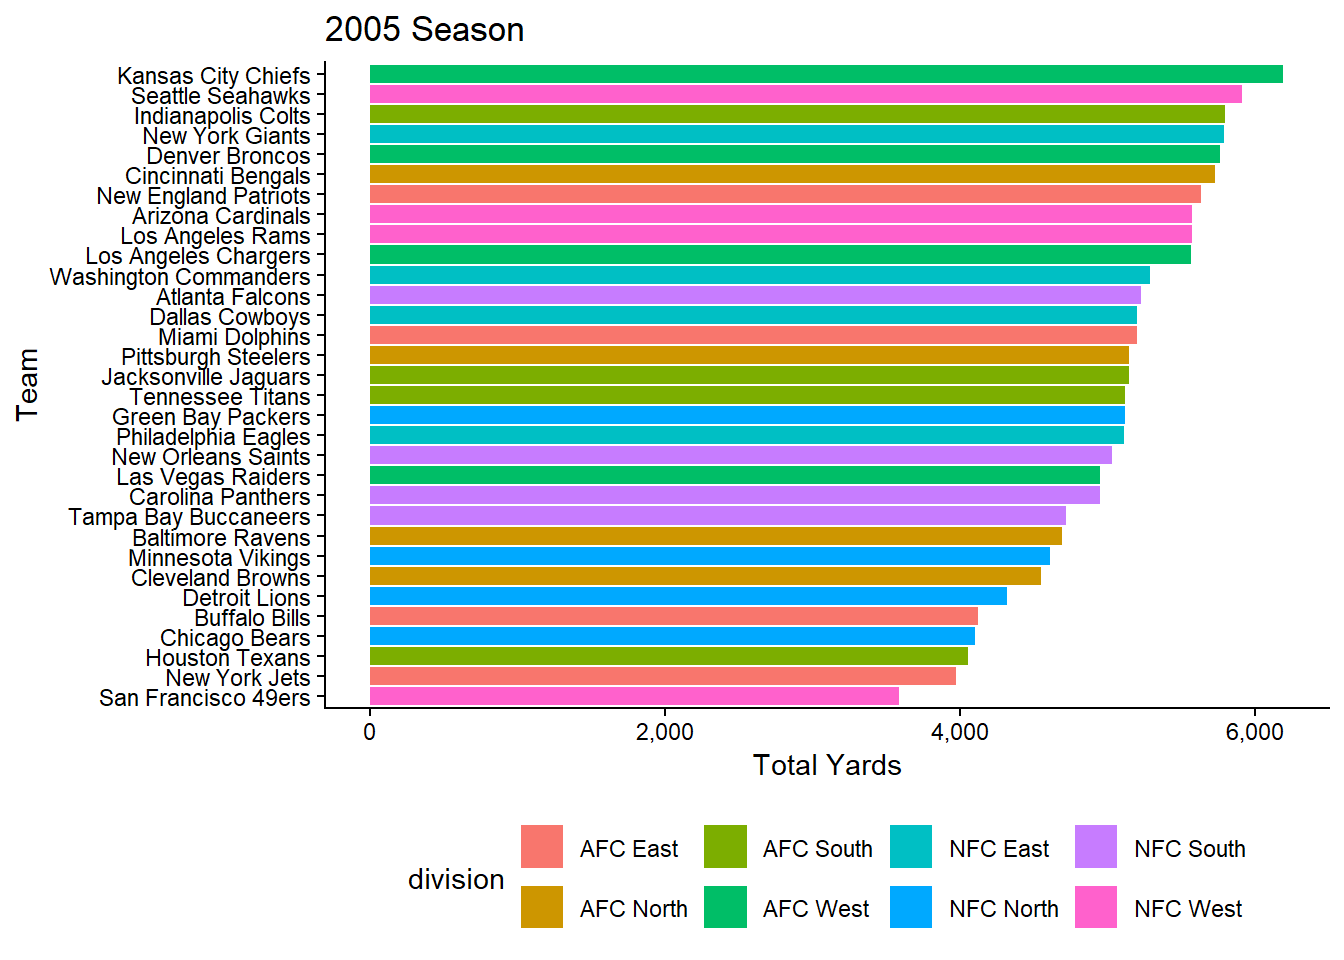
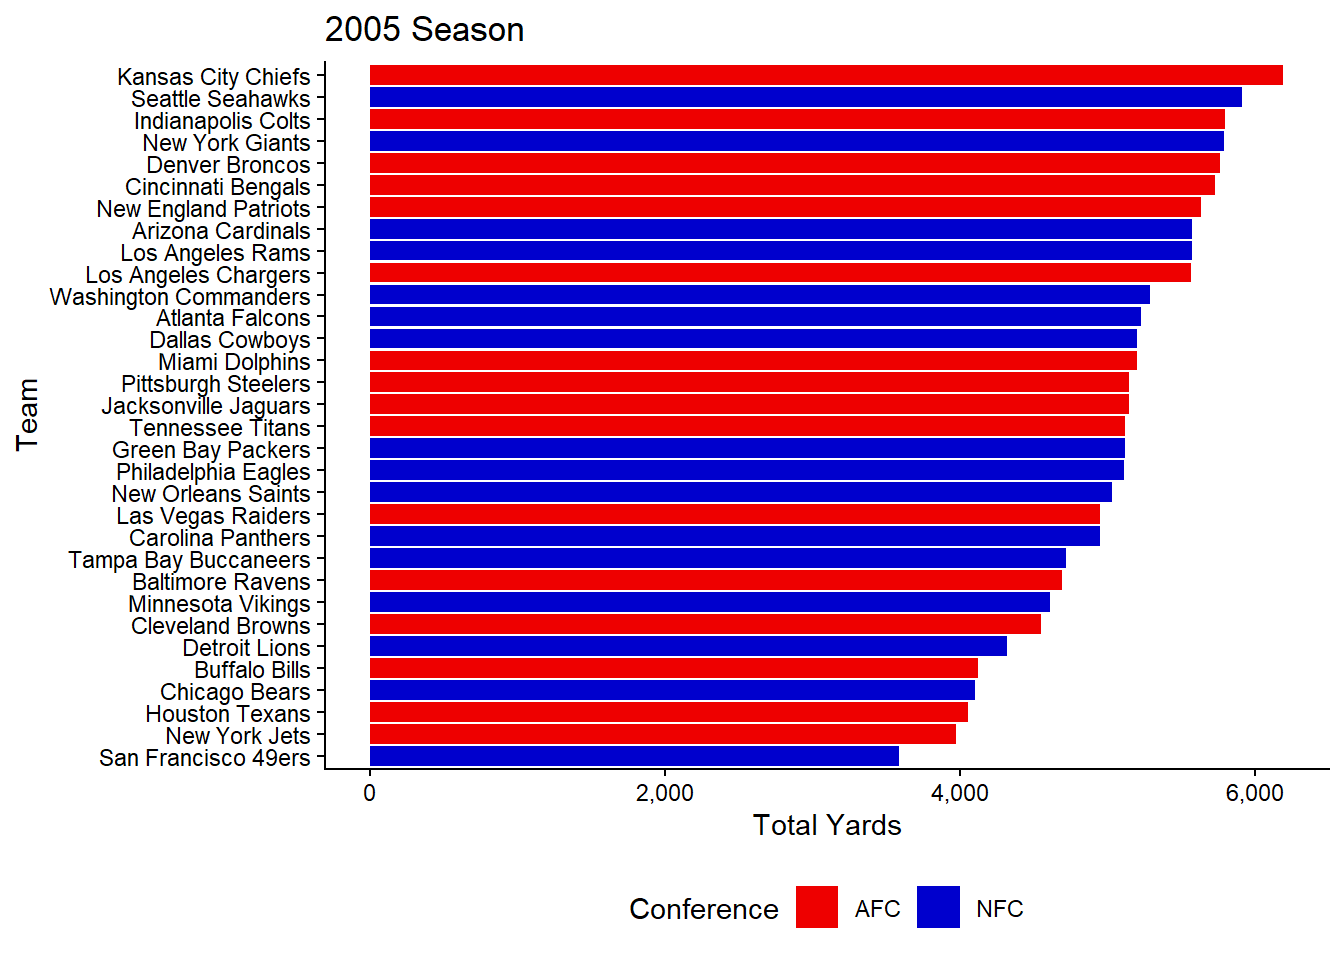
final project work

diff --git a/docs/Data_Visualizations/final_ds350_project.html b/docs/Data_Visualizations/final_ds350_project.html
@@ -494,25 +494,30 @@ $ division             &lt;chr&gt; "AFC East", "AFC East", "AFC East", "AFC East
 <div class="sourceCode cell-code" id="cb6"><pre class="sourceCode r code-with-copy"><code class="sourceCode r"><span id="cb6-1"><a href="#cb6-1" aria-hidden="true" tabindex="-1"></a>yards_per_season <span class="ot">&lt;-</span> <span class="cf">function</span>(season){</span>
 <span id="cb6-2"><a href="#cb6-2" aria-hidden="true" tabindex="-1"></a>  </span>
 <span id="cb6-3"><a href="#cb6-3" aria-hidden="true" tabindex="-1"></a>  season_yards <span class="ot">&lt;-</span> nfl_data_cleaned <span class="sc">%&gt;%</span></span>
-<span id="cb6-4"><a href="#cb6-4" aria-hidden="true" tabindex="-1"></a>    <span class="fu">filter</span>(year <span class="sc">==</span> season) </span>
-<span id="cb6-5"><a href="#cb6-5" aria-hidden="true" tabindex="-1"></a>  </span>
-<span id="cb6-6"><a href="#cb6-6" aria-hidden="true" tabindex="-1"></a>  <span class="fu">ggplot</span>(season_yards, <span class="fu">aes</span>(<span class="at">x =</span> total_yards, <span class="at">y =</span> <span class="fu">reorder</span>(team, total_yards), <span class="at">fill =</span> division)) <span class="sc">+</span></span>
-<span id="cb6-7"><a href="#cb6-7" aria-hidden="true" tabindex="-1"></a>    <span class="fu">geom_col</span>() <span class="sc">+</span></span>
-<span id="cb6-8"><a href="#cb6-8" aria-hidden="true" tabindex="-1"></a>    <span class="fu">theme_classic</span>() <span class="sc">+</span></span>
-<span id="cb6-9"><a href="#cb6-9" aria-hidden="true" tabindex="-1"></a>    <span class="fu">scale_x_continuous</span>(<span class="at">labels =</span> scales<span class="sc">::</span>comma) <span class="sc">+</span></span>
-<span id="cb6-10"><a href="#cb6-10" aria-hidden="true" tabindex="-1"></a>    <span class="fu">theme</span>(</span>
-<span id="cb6-11"><a href="#cb6-11" aria-hidden="true" tabindex="-1"></a>      <span class="at">legend.position =</span> <span class="st">"bottom"</span></span>
-<span id="cb6-12"><a href="#cb6-12" aria-hidden="true" tabindex="-1"></a>    )<span class="sc">+</span></span>
-<span id="cb6-13"><a href="#cb6-13" aria-hidden="true" tabindex="-1"></a>    <span class="fu">labs</span>(</span>
-<span id="cb6-14"><a href="#cb6-14" aria-hidden="true" tabindex="-1"></a>      <span class="at">title =</span> <span class="fu">paste0</span>(season, <span class="st">" Season"</span>), </span>
-<span id="cb6-15"><a href="#cb6-15" aria-hidden="true" tabindex="-1"></a>      <span class="at">x =</span> <span class="st">"Total Yards"</span>,</span>
-<span id="cb6-16"><a href="#cb6-16" aria-hidden="true" tabindex="-1"></a>      <span class="at">y =</span> <span class="st">"Team"</span></span>
-<span id="cb6-17"><a href="#cb6-17" aria-hidden="true" tabindex="-1"></a>    )</span>
-<span id="cb6-18"><a href="#cb6-18" aria-hidden="true" tabindex="-1"></a>}</span></code><button title="Copy to Clipboard" class="code-copy-button"><i class="bi"></i></button></pre></div>
+<span id="cb6-4"><a href="#cb6-4" aria-hidden="true" tabindex="-1"></a>    <span class="fu">filter</span>(year <span class="sc">==</span> season) <span class="sc">%&gt;%</span></span>
+<span id="cb6-5"><a href="#cb6-5" aria-hidden="true" tabindex="-1"></a>    <span class="fu">mutate</span>(<span class="at">conference =</span> <span class="fu">str_extract</span>(division, <span class="st">"AFC|NFC"</span>))</span>
+<span id="cb6-6"><a href="#cb6-6" aria-hidden="true" tabindex="-1"></a>  </span>
+<span id="cb6-7"><a href="#cb6-7" aria-hidden="true" tabindex="-1"></a>  <span class="fu">ggplot</span>(season_yards, <span class="fu">aes</span>(<span class="at">x =</span> total_yards, <span class="at">y =</span> <span class="fu">reorder</span>(team, total_yards), <span class="at">fill =</span> conference)) <span class="sc">+</span></span>
+<span id="cb6-8"><a href="#cb6-8" aria-hidden="true" tabindex="-1"></a>    <span class="fu">geom_col</span>() <span class="sc">+</span></span>
+<span id="cb6-9"><a href="#cb6-9" aria-hidden="true" tabindex="-1"></a>    <span class="fu">theme_classic</span>() <span class="sc">+</span></span>
+<span id="cb6-10"><a href="#cb6-10" aria-hidden="true" tabindex="-1"></a>    <span class="fu">scale_x_continuous</span>(<span class="at">labels =</span> scales<span class="sc">::</span>comma) <span class="sc">+</span></span>
+<span id="cb6-11"><a href="#cb6-11" aria-hidden="true" tabindex="-1"></a>    <span class="fu">scale_fill_manual</span>(</span>
+<span id="cb6-12"><a href="#cb6-12" aria-hidden="true" tabindex="-1"></a>      <span class="at">values =</span> <span class="fu">c</span>(<span class="st">"AFC"</span> <span class="ot">=</span> <span class="st">"red2"</span>, <span class="st">"NFC"</span> <span class="ot">=</span> <span class="st">"blue3"</span>)</span>
+<span id="cb6-13"><a href="#cb6-13" aria-hidden="true" tabindex="-1"></a>    ) <span class="sc">+</span></span>
+<span id="cb6-14"><a href="#cb6-14" aria-hidden="true" tabindex="-1"></a>    <span class="fu">theme</span>(</span>
+<span id="cb6-15"><a href="#cb6-15" aria-hidden="true" tabindex="-1"></a>      <span class="at">legend.position =</span> <span class="st">"bottom"</span></span>
+<span id="cb6-16"><a href="#cb6-16" aria-hidden="true" tabindex="-1"></a>    ) <span class="sc">+</span></span>
+<span id="cb6-17"><a href="#cb6-17" aria-hidden="true" tabindex="-1"></a>    <span class="fu">labs</span>(</span>
+<span id="cb6-18"><a href="#cb6-18" aria-hidden="true" tabindex="-1"></a>      <span class="at">title =</span> <span class="fu">paste0</span>(season, <span class="st">" Season"</span>), </span>
+<span id="cb6-19"><a href="#cb6-19" aria-hidden="true" tabindex="-1"></a>      <span class="at">x =</span> <span class="st">"Total Yards"</span>,</span>
+<span id="cb6-20"><a href="#cb6-20" aria-hidden="true" tabindex="-1"></a>      <span class="at">y =</span> <span class="st">"Team"</span>,</span>
+<span id="cb6-21"><a href="#cb6-21" aria-hidden="true" tabindex="-1"></a>      <span class="at">fill =</span> <span class="st">"Conference"</span></span>
+<span id="cb6-22"><a href="#cb6-22" aria-hidden="true" tabindex="-1"></a>    )</span>
+<span id="cb6-23"><a href="#cb6-23" aria-hidden="true" tabindex="-1"></a>}</span></code><button title="Copy to Clipboard" class="code-copy-button"><i class="bi"></i></button></pre></div>
 </div>
 <section id="examples" class="level3">
 <h3 class="anchored" data-anchor-id="examples">Examples</h3>
-<p>In these visuals, you can see that there are different visuals for the total yards that each team was able to get over the different seasons. This is filtered out by the seasons, so you input what year you want to see and it will sort it from the team with the most years to the team with the least amount of yards.</p>
+<p>In these visuals, you can see that there are different visuals for the total yards that each team was able to get over the different seasons. This is filtered out by the seasons, so you input what year you want to see and it will sort it from the team with the most years to the team with the least amount of yards. There is also a color filter so that way you can see which conference, either the AFC or the NFC teams, are at the top of the league during those seasons. For example, in the 2005 season 6 of the top 10 teams in total yards are in the AFC.</p>
 <div class="cell">
 <div class="sourceCode cell-code" id="cb7"><pre class="sourceCode r code-with-copy"><code class="sourceCode r"><span id="cb7-1"><a href="#cb7-1" aria-hidden="true" tabindex="-1"></a><span class="fu">yards_per_season</span>(<span class="dv">2005</span>)</span></code><button title="Copy to Clipboard" class="code-copy-button"><i class="bi"></i></button></pre></div>
 <div class="cell-output-display">
@@ -996,7 +1001,7 @@ $ division             &lt;chr&gt; "AFC East", "AFC East", "AFC East", "AFC East
 </div>
 <section id="analysis-1" class="level3">
 <h3 class="anchored" data-anchor-id="analysis-1">Analysis:</h3>
-<p>This graph was to see what the correlation between losses and penalties. As we can see, there is a small, yet very weak correlation. When I first did this, I thought that if a team was penalized more, they would have more losses. However, it does not show that truly.</p>
+<p>This graph was to see what the correlation between losses and penalties. As we can see, there is a small, yet very weak correlation. When I first did this, I thought that if a team was penalized more, they would have more losses. However, it does not show that to be the full case. A team can take a lot of penilties, but they still may not loss a lot of games.</p>
 
 
 </section>
